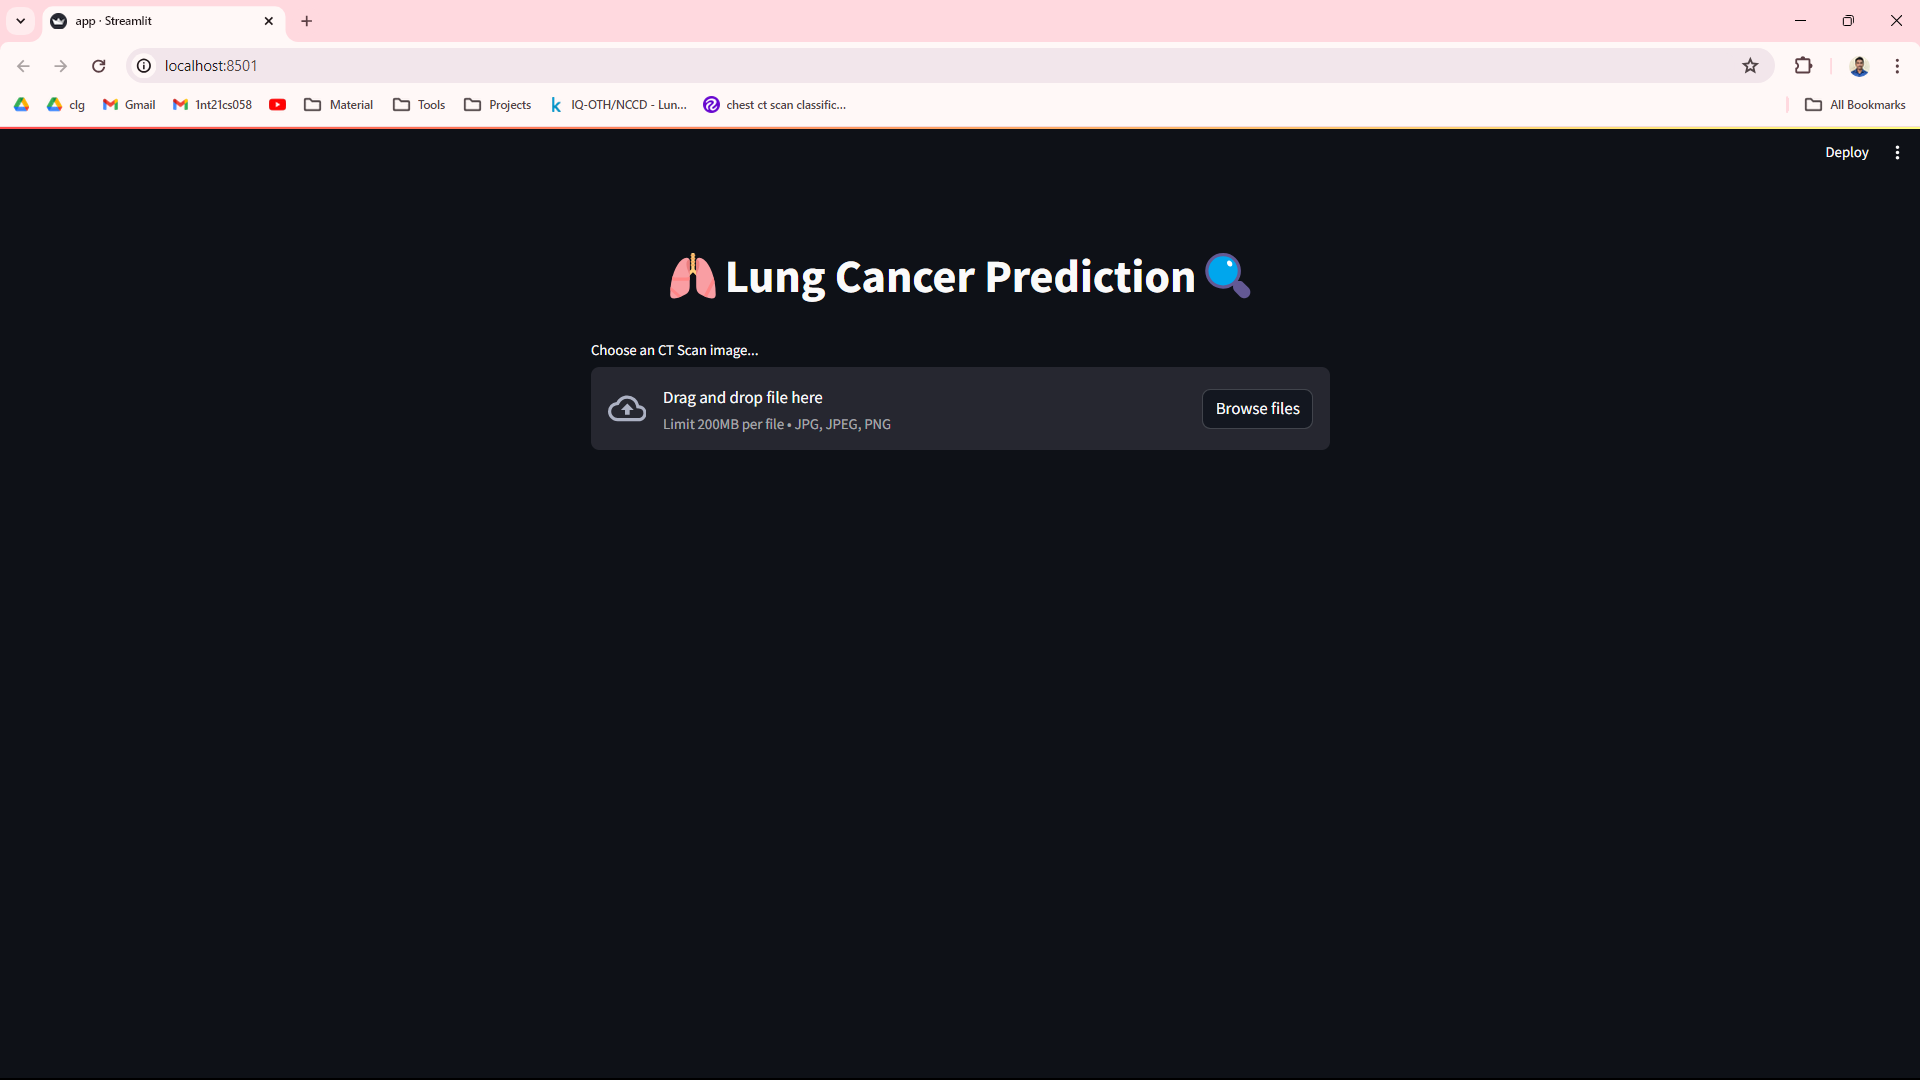
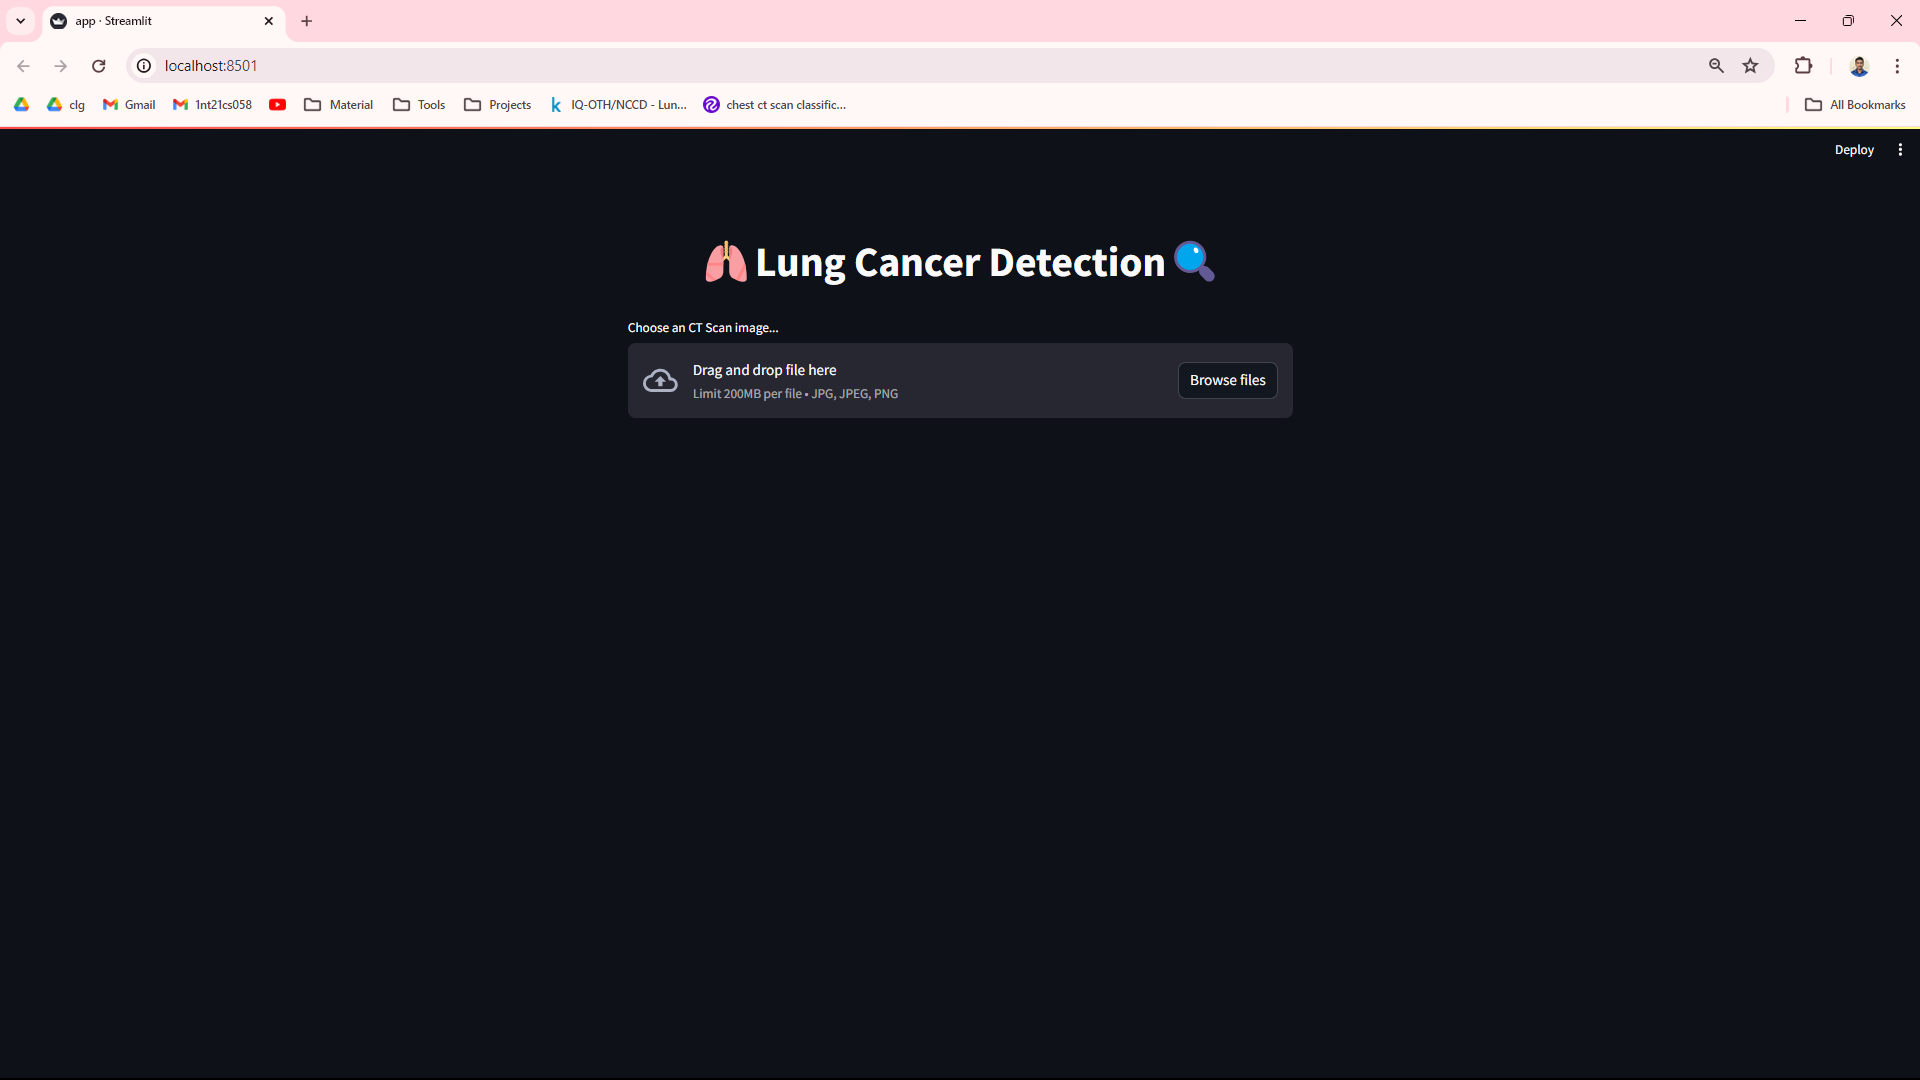
updated ui

Changed region(s): [[0.2812, 0.2139, 0.7188, 0.4278], [0.9375, 0.1222, 0.9688, 0.1528]]

diff --git a/app.py b/app.py
@@ -3,7 +3,7 @@ from PIL import Image
 from lung_cancer_classifier.pipeline.prediction_pipeline import PredictionPipeline
 
 
-st.markdown("<h1 style='text-align: center;'>🫁Lung Cancer Prediction🔍</h1>", unsafe_allow_html=True)
+st.markdown("<h1 style='text-align: center;'>🫁Lung Cancer Detection🔍</h1>", unsafe_allow_html=True)
 st.write("")
 
 uploaded_file = st.file_uploader("Choose an CT Scan image...", type=["jpg", "jpeg", "png"])
